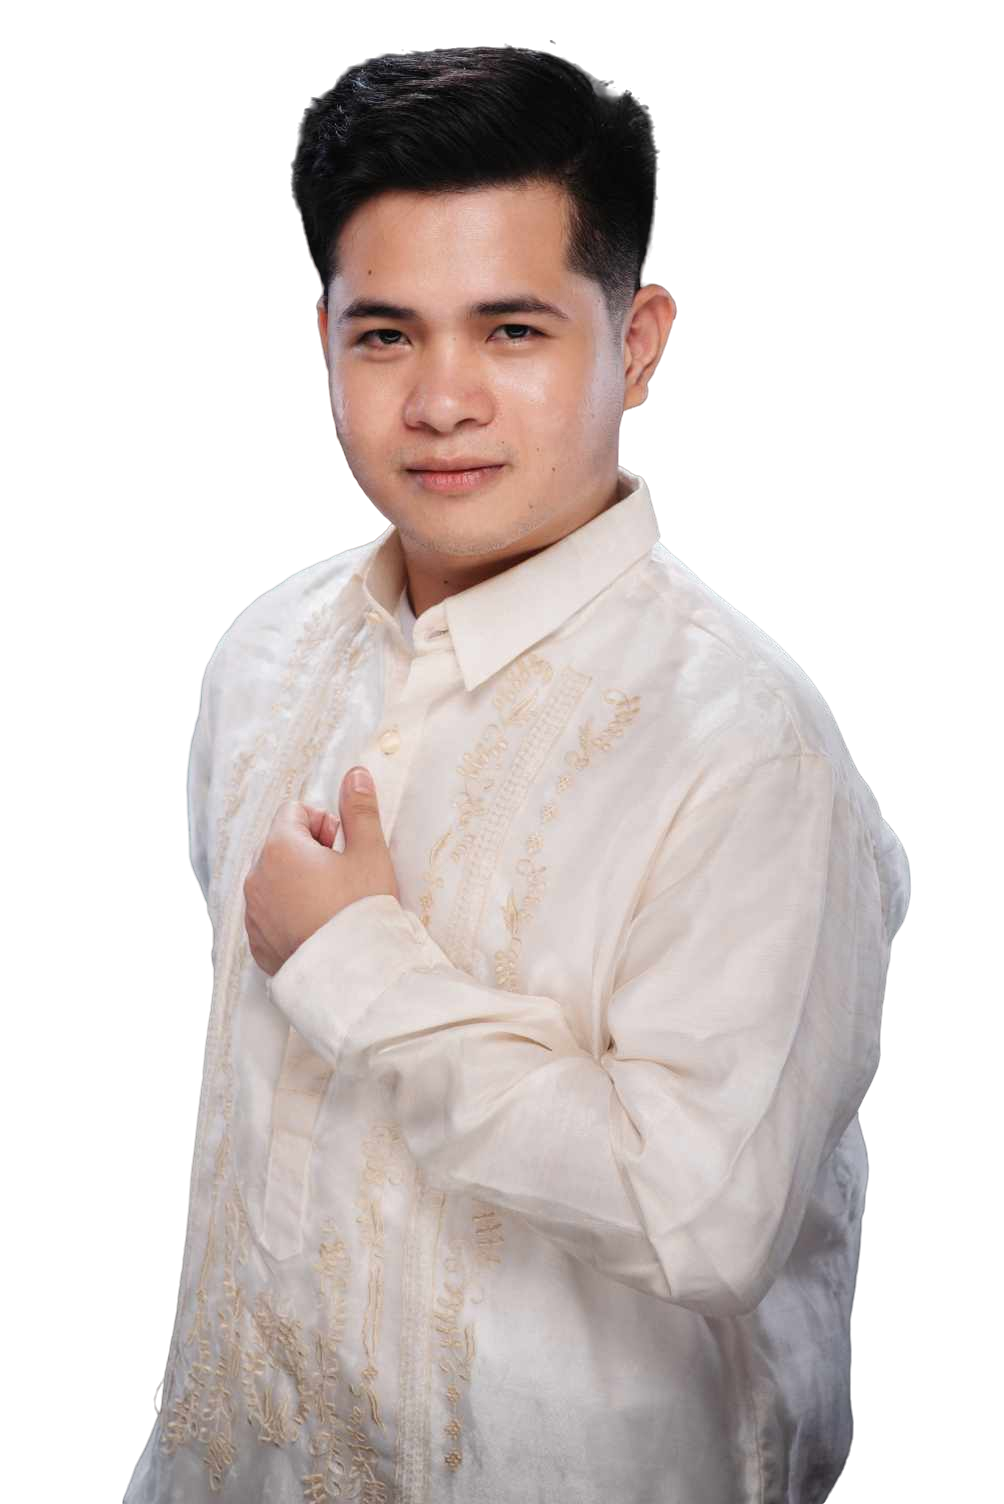
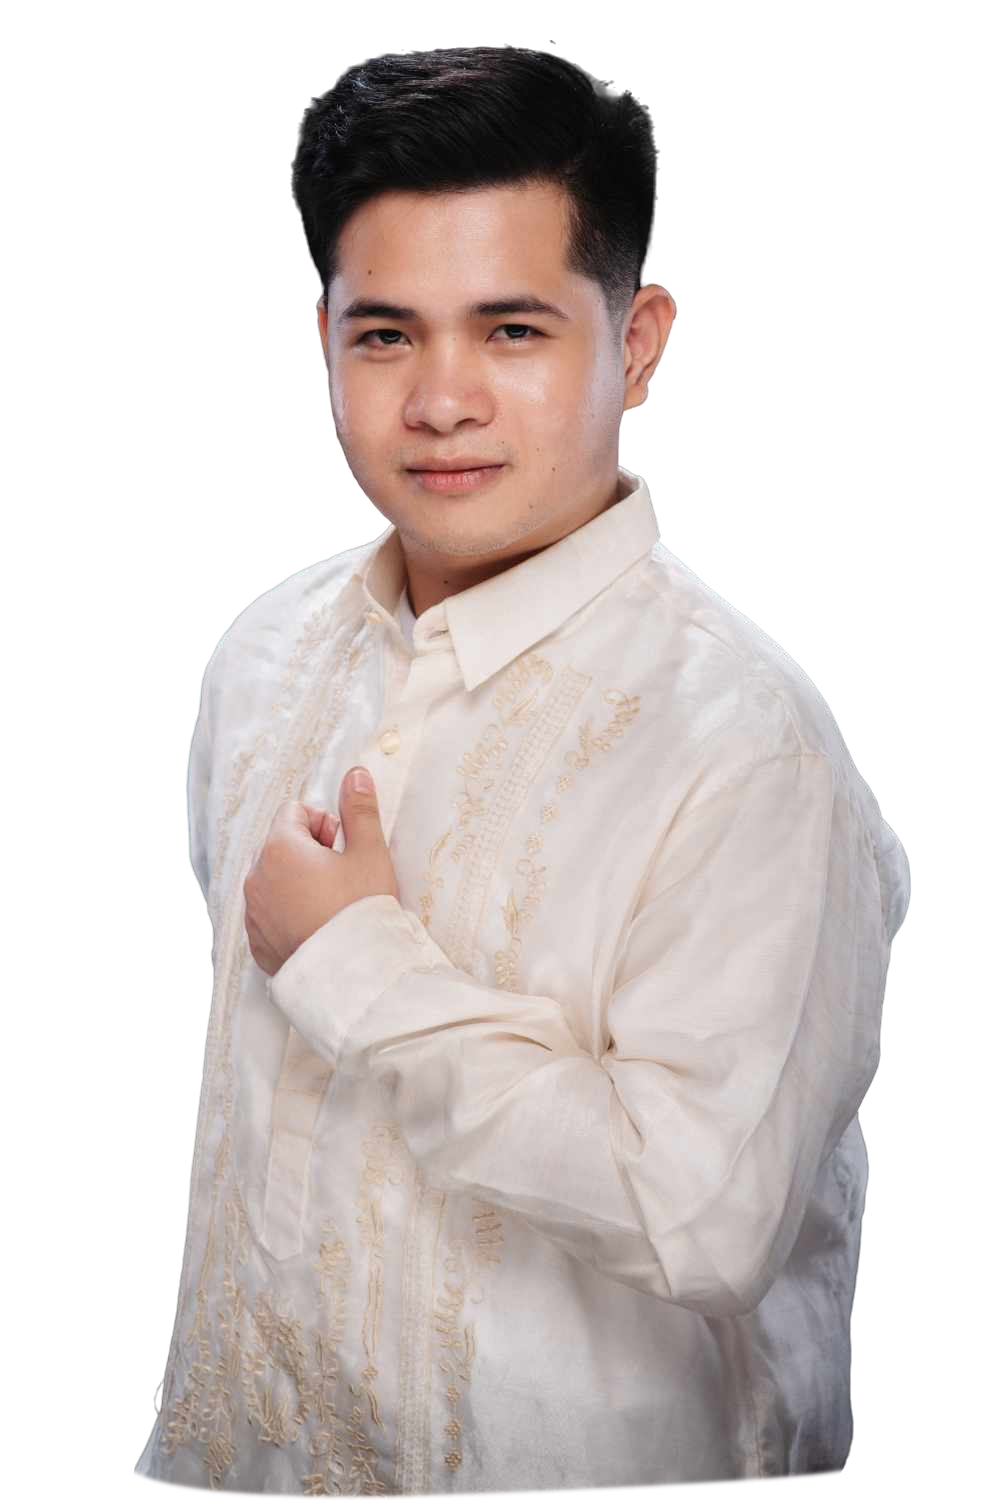
update

Changed region(s): [[0.1235, 0.9688, 0.8337, 1.0]]

diff --git a/style.css b/style.css
@@ -64,14 +64,12 @@ background-color: #484646;
 .suit img{ 
     width: 480px;
     filter: drop-shadow(20px 5px 4px #363636);
-    border-bottom: solid;
-    color: rgb(24, 24, 24);
+    
 }
 .barong img{ 
     width: 376.7px;
     filter: drop-shadow(20px 5px 4px #363636);
-    border-bottom: solid;
-    color: rgb(24, 24, 24);
+  
 }
 .landing-page h1{
     font-weight: 450;
